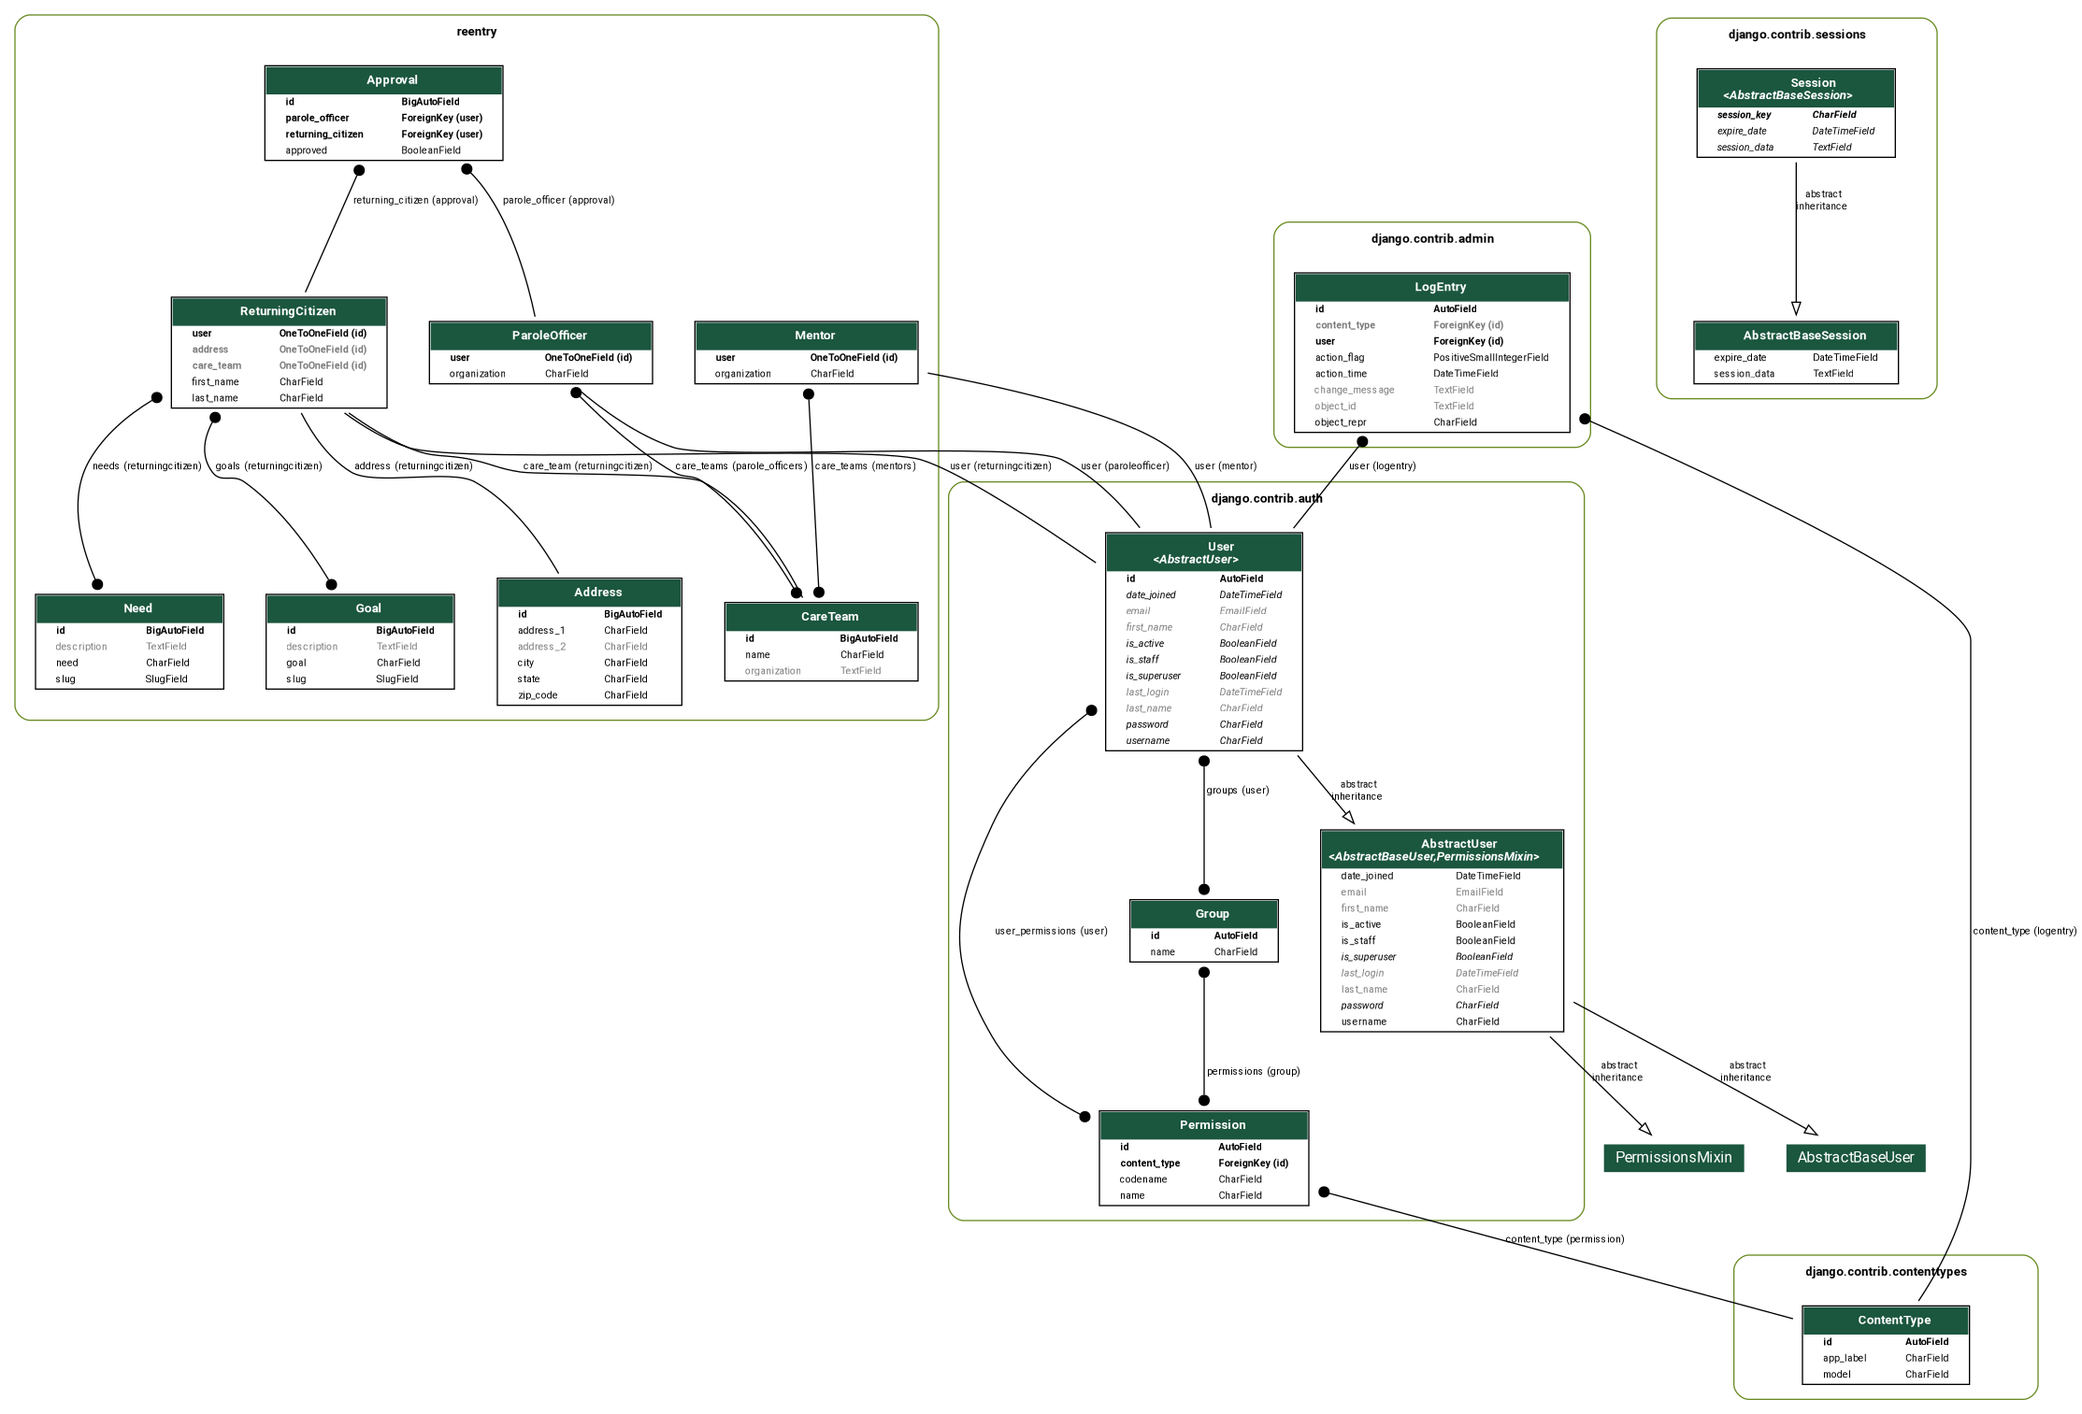
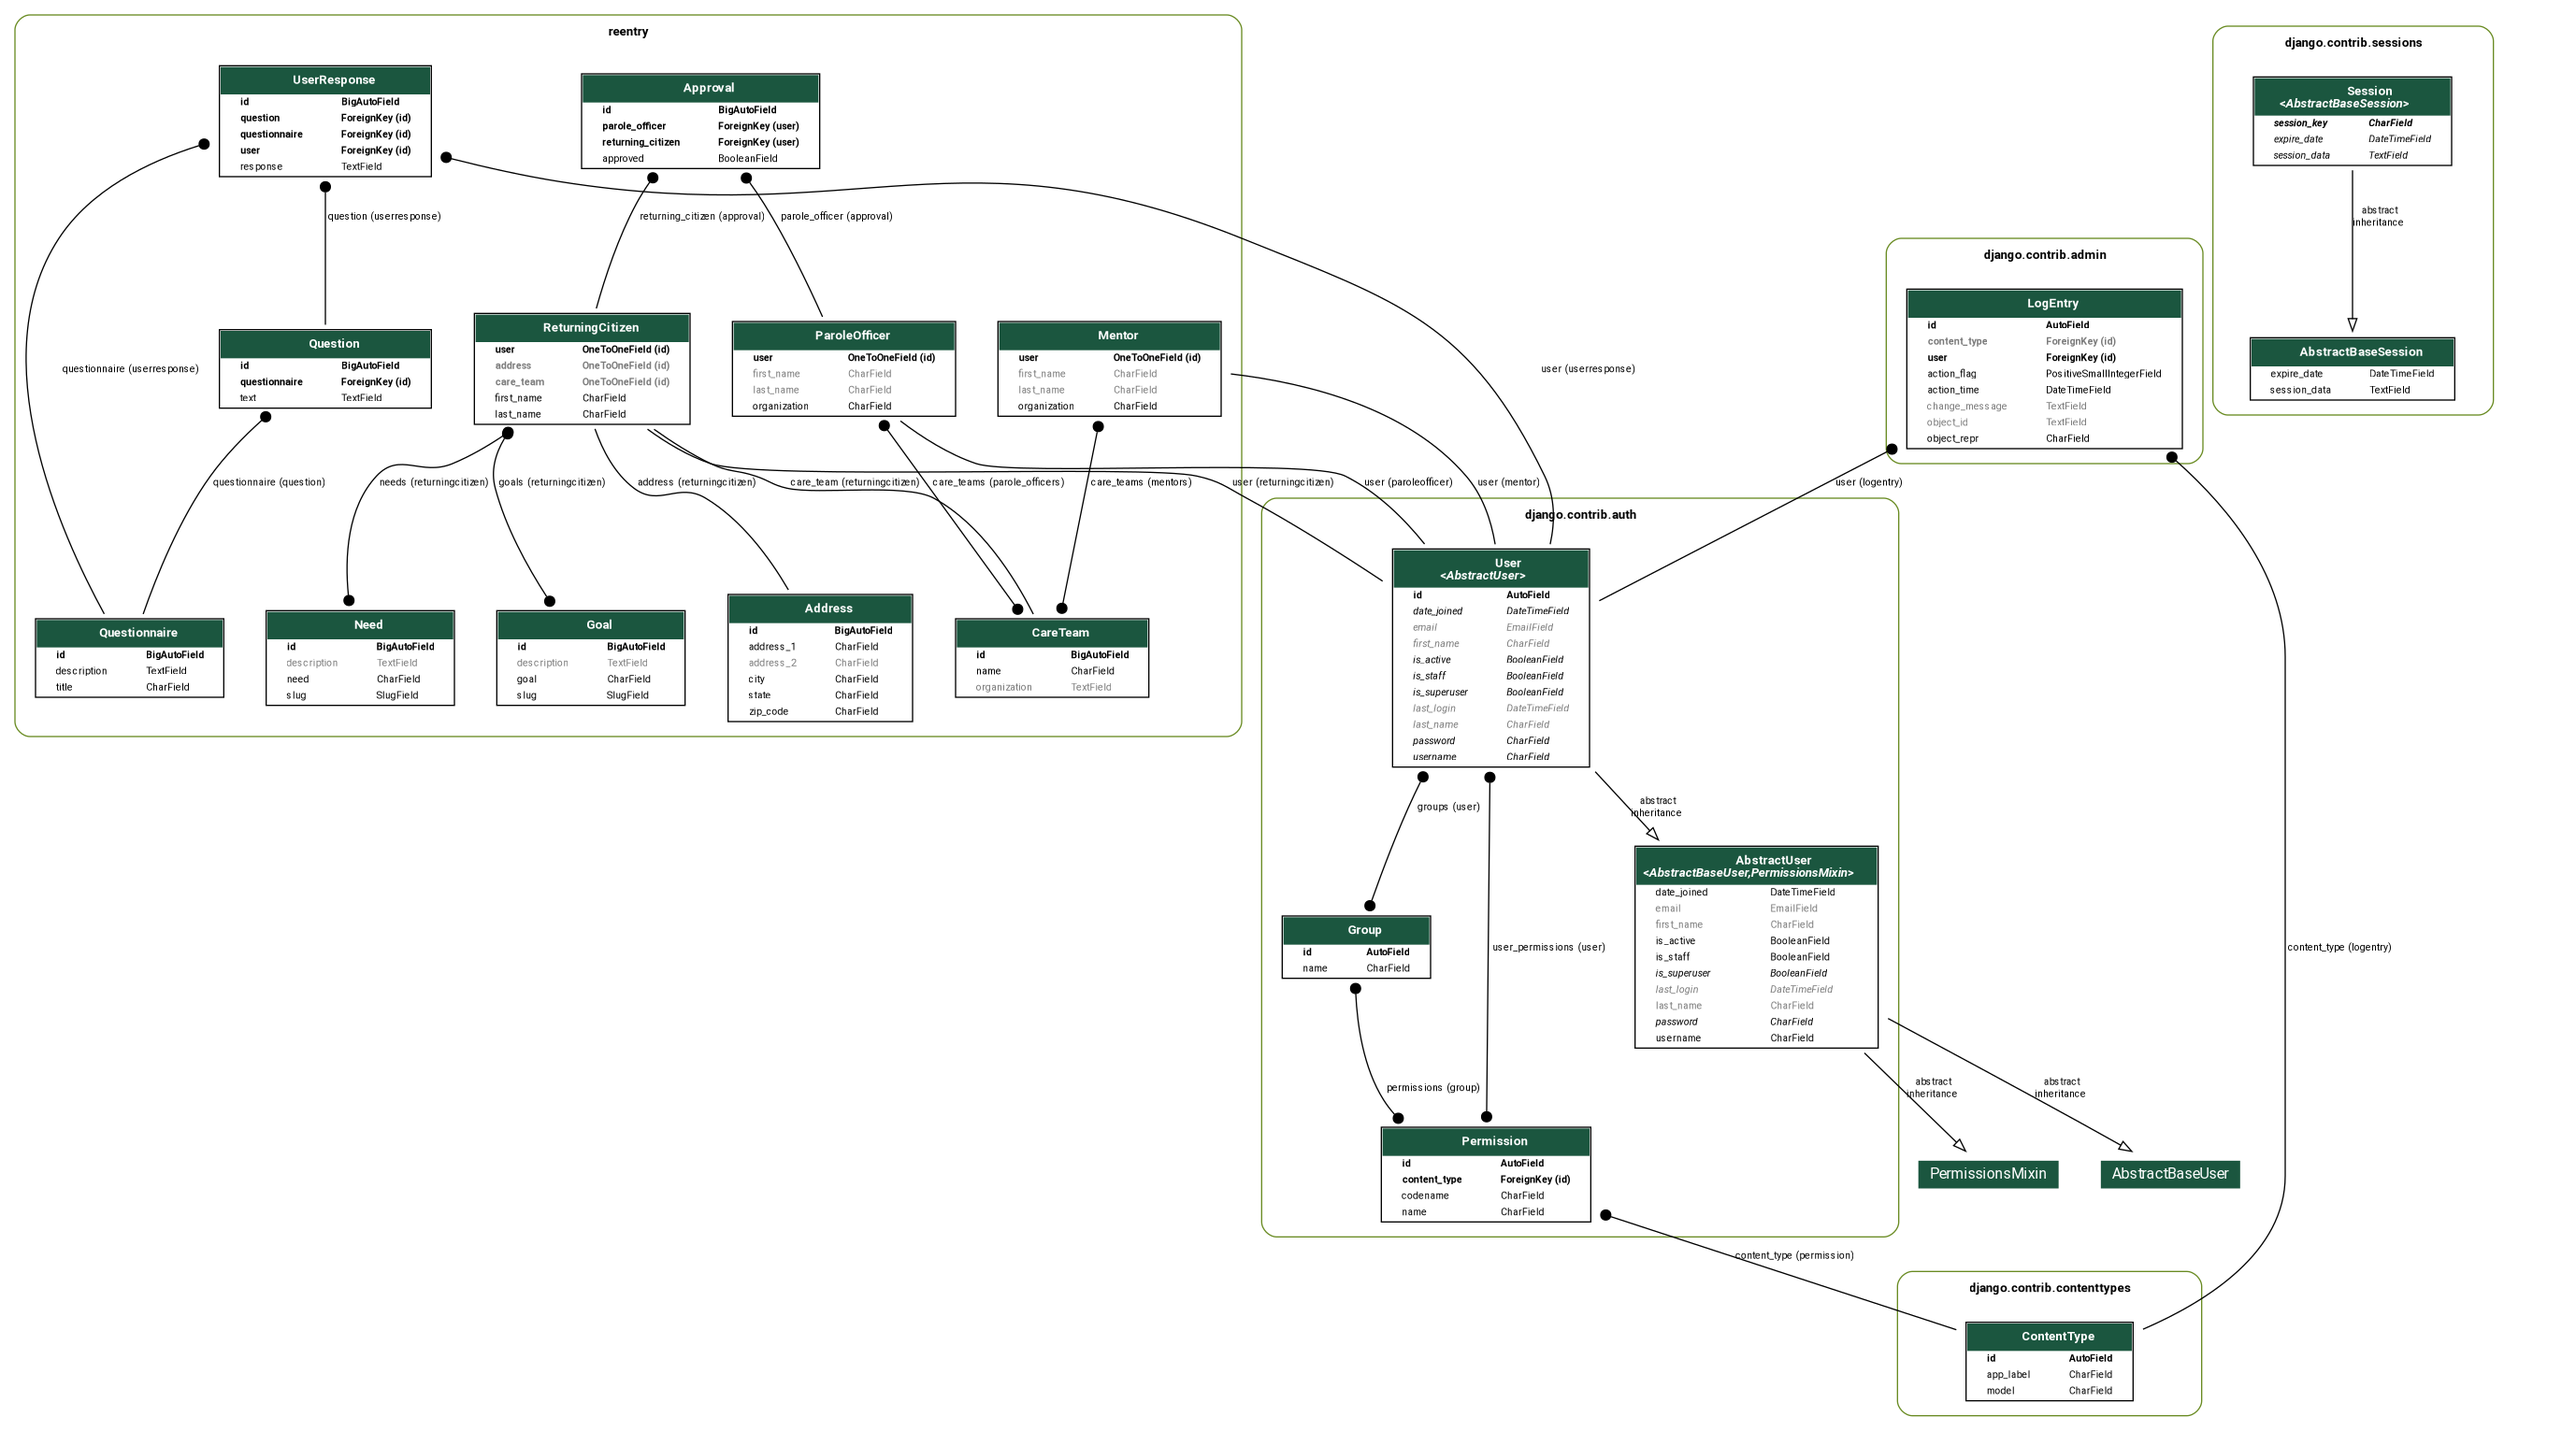
feat: questionnaire

diff --git a/trs/reentry/migrations/0006_questionnaire_question_userresponse.py b/trs/reentry/migrations/0006_questionnaire_question_userresponse.py
@@ -1,0 +1,89 @@
+# Generated by Django 5.0 on 2024-01-19 18:28
+
+import django.db.models.deletion
+from django.conf import settings
+from django.db import migrations, models
+
+
+class Migration(migrations.Migration):
+    dependencies = [
+        ("reentry", "0005_mentor_first_name_mentor_last_name_and_more"),
+        migrations.swappable_dependency(settings.AUTH_USER_MODEL),
+    ]
+
+    operations = [
+        migrations.CreateModel(
+            name="Questionnaire",
+            fields=[
+                (
+                    "id",
+                    models.BigAutoField(
+                        auto_created=True,
+                        primary_key=True,
+                        serialize=False,
+                        verbose_name="ID",
+                    ),
+                ),
+                ("title", models.CharField(max_length=255)),
+                ("description", models.TextField()),
+            ],
+        ),
+        migrations.CreateModel(
+            name="Question",
+            fields=[
+                (
+                    "id",
+                    models.BigAutoField(
+                        auto_created=True,
+                        primary_key=True,
+                        serialize=False,
+                        verbose_name="ID",
+                    ),
+                ),
+                ("text", models.TextField()),
+                (
+                    "questionnaire",
+                    models.ForeignKey(
+                        on_delete=django.db.models.deletion.CASCADE,
+                        to="reentry.questionnaire",
+                    ),
+                ),
+            ],
+        ),
+        migrations.CreateModel(
+            name="UserResponse",
+            fields=[
+                (
+                    "id",
+                    models.BigAutoField(
+                        auto_created=True,
+                        primary_key=True,
+                        serialize=False,
+                        verbose_name="ID",
+                    ),
+                ),
+                ("response", models.TextField()),
+                (
+                    "question",
+                    models.ForeignKey(
+                        on_delete=django.db.models.deletion.CASCADE,
+                        to="reentry.question",
+                    ),
+                ),
+                (
+                    "questionnaire",
+                    models.ForeignKey(
+                        on_delete=django.db.models.deletion.CASCADE,
+                        to="reentry.questionnaire",
+                    ),
+                ),
+                (
+                    "user",
+                    models.ForeignKey(
+                        on_delete=django.db.models.deletion.CASCADE,
+                        to=settings.AUTH_USER_MODEL,
+                    ),
+                ),
+            ],
+        ),
+    ]

diff --git a/trs/reentry/tests.py b/trs/reentry/tests.py
@@ -11,6 +11,9 @@ from .models import (
     Address,
     ReturningCitizen,
     Approval,
+    Questionnaire,
+    Question,
+    UserResponse,
 )
 
 from django.urls import reverse
@@ -38,6 +41,14 @@ class ModelTestCase(TestCase):
         # Create an Address
         self.address = Address.objects.create(
             address_1="123 Main St", city="Test City", state="CA", zip_code="12345"
+        )
+        self.questionnaire = Questionnaire.objects.create(title="Test Questionnaire", description="Description")
+        self.question = Question.objects.create(questionnaire=self.questionnaire, text="Test Question", order=1)
+        self.user_response = UserResponse.objects.create(
+            user=self.user,
+            questionnaire=self.questionnaire,
+            question=self.question,
+            response="testuser's response to 'Test Question'"
         )
 
     def test_care_team_model(self):
@@ -109,6 +120,16 @@ class ModelTestCase(TestCase):
                 user=approval.parole_officer.user
             ).exists()
         )
+    
+
+    def test_questionnaire_str(self):
+        self.assertEqual(str(self.questionnaire), "Test Questionnaire")
+
+    def test_question_str(self):
+        self.assertEqual(str(self.question), "Test Question")
+
+    def test_user_response_str(self):
+        self.assertEqual(str(self.user_response), "testuser's response to 'Test Question'")
 
 
 class AuthIntegrationTest(TestCase):

diff --git a/trs/reentry/models.py b/trs/reentry/models.py
@@ -54,7 +54,7 @@ class Need(models.Model):
     def __str__(self):
         return self.need
 
-
+#possibly deprecated with Questionaire model and related models
 class Goal(models.Model):
     goal = models.CharField(max_length=100)
     description = models.TextField(null=True, blank=True)
@@ -62,6 +62,34 @@ class Goal(models.Model):
 
     def __str__(self):
         return self.goal
+
+
+class Questionnaire(models.Model):
+    title = models.CharField(max_length=255)
+    description = models.TextField()
+
+    def __str__(self):
+        return self.title
+
+class Question(models.Model):
+    questionnaire = models.ForeignKey(Questionnaire, on_delete=models.CASCADE)
+    text = models.TextField()
+    order = models.PositiveIntegerField(default=0)
+
+    def __str__(self):
+        return self.text
+    class Meta:
+        ordering = ['order']
+
+class UserResponse(models.Model):
+    user = models.ForeignKey(User, on_delete=models.CASCADE)
+    questionnaire = models.ForeignKey(Questionnaire, on_delete=models.CASCADE)
+    question = models.ForeignKey(Question, on_delete=models.CASCADE)
+    response = models.TextField()
+
+    def __str__(self):
+        return f"{self.user.username}'s response to '{self.question.text}'"
+
 
 
 class Address(models.Model):

diff --git a/trs/reentry/admin.py b/trs/reentry/admin.py
@@ -3,7 +3,7 @@ from django.contrib import admin
 from django.contrib.auth.admin import UserAdmin as BaseUserAdmin
 from django.contrib.auth.models import User
 
-from reentry.models import ParoleOfficer, Mentor, CareTeam, ReturningCitizen, Approval, Need, Goal, Address
+from reentry.models import ParoleOfficer, Mentor, CareTeam, ReturningCitizen, Approval, Need, Goal, Address, Questionnaire, Question, UserResponse
 
 
 # Define an inline admin descriptor for mmodel
@@ -34,3 +34,7 @@ admin.site.register(User, UserAdmin)
 admin.site.register(Approval)
 admin.site.register(Need)
 admin.site.register(Goal)
+admin.site.register(Address)
+admin.site.register(Questionnaire)
+admin.site.register(Question)
+admin.site.register(UserResponse)

diff --git a/trs/reentry/migrations/0007_alter_question_options_question_order.py b/trs/reentry/migrations/0007_alter_question_options_question_order.py
@@ -1,0 +1,21 @@
+# Generated by Django 5.0 on 2024-01-19 19:56
+
+from django.db import migrations, models
+
+
+class Migration(migrations.Migration):
+    dependencies = [
+        ("reentry", "0006_questionnaire_question_userresponse"),
+    ]
+
+    operations = [
+        migrations.AlterModelOptions(
+            name="question",
+            options={"ordering": ["order"]},
+        ),
+        migrations.AddField(
+            model_name="question",
+            name="order",
+            field=models.PositiveIntegerField(default=0),
+        ),
+    ]
